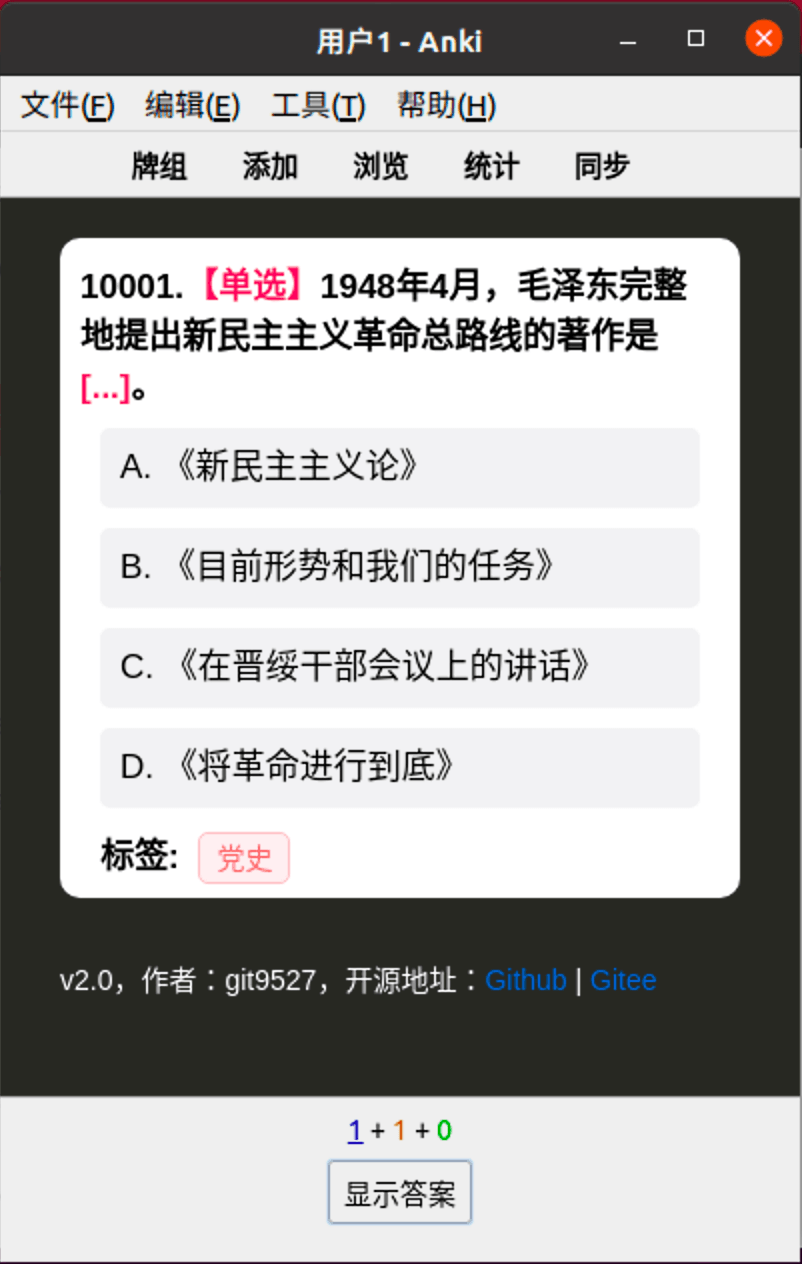
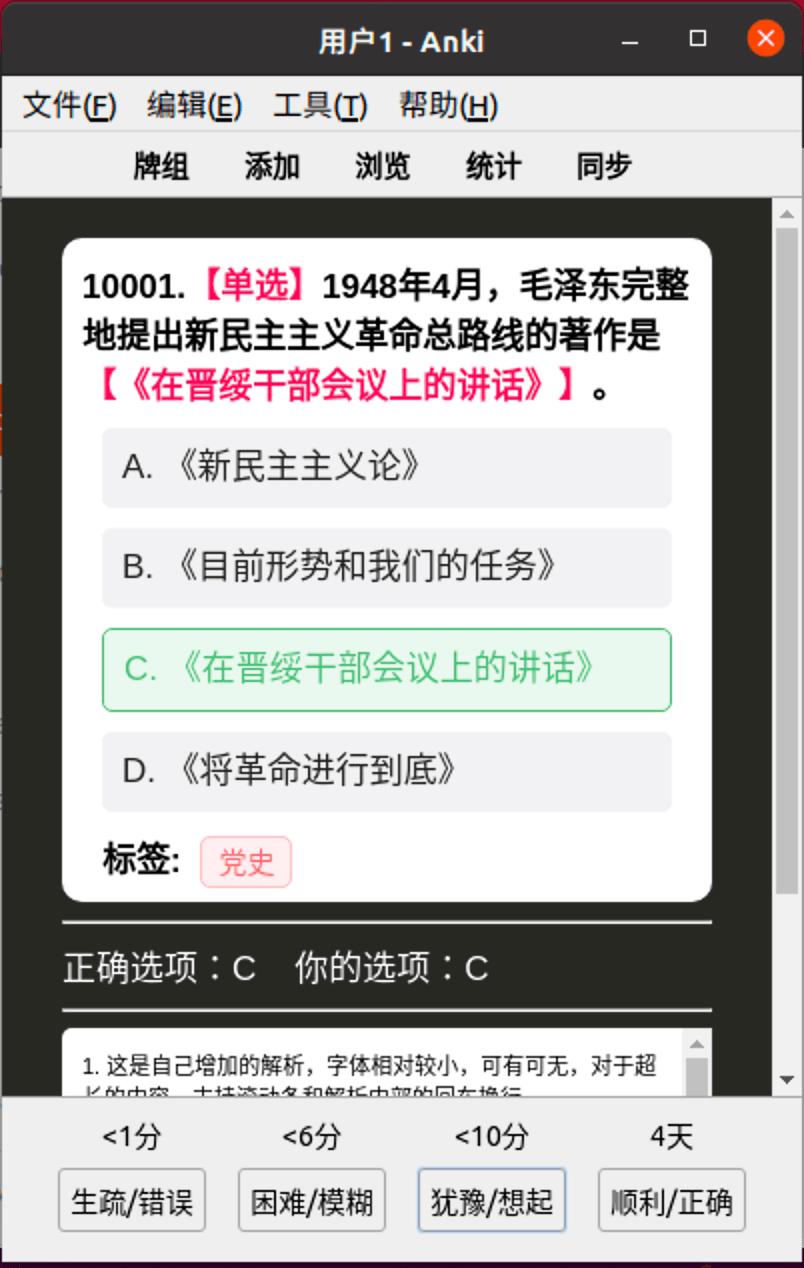
v3.2: 1. 选中的选项主色调由黄色调整为棕色 2. ⚠多选模式下，未选择但正确的选项标示为黄色 3. 优化解析部分的展示，对于超长的内容，支持滚动条和解析内部的回车换行。 4. 增加【淡色模式】的设置项，用于默认的浓色和淡色切换 5. 调整设置项顺序

diff --git a/front.html b/front.html
@@ -11,7 +11,7 @@
   </div>
 </div>
 
-<div class="footer">v3.1，作者：git9527，<a href="javascript:showSettings();">卡片设置</a>，开源地址：<a href="https://github.com/git9527/anki-awesome-select">Github</a> | <a href="https://gitee.com/git9527/anki-awesome-select">Gitee</a></div>
+<div class="footer">v3.2，作者：git9527，<a href="javascript:showSettings();">卡片设置</a>，开源地址：<a href="https://github.com/git9527/anki-awesome-select">Github</a> | <a href="https://gitee.com/git9527/anki-awesome-select">Gitee</a></div>
 
 <div id="answer" style="display:none">{{answer}}</div>
 <div id="options" style="display:none">{{options}}</div>
@@ -22,6 +22,12 @@
   <div class="modal-content">
     <span class="close" onclick="hideSettings()">&times;</span>
     <div class="settings-block">
+      <div class="single-setting">
+        <div class="setting-label">显示类型</div>
+        <div class="setting-switch">
+          <input id="show-type" class="mui-switch mui-switch-anim" type="checkbox" onchange="switchShowType(this)">
+        </div>
+      </div>
       <div class="single-setting">
         <div class="setting-label">隐藏选项</div>
         <div class="setting-switch">
@@ -35,15 +41,15 @@
         </div>
       </div>
       <div class="single-setting">
-        <div class="setting-label">显示类型</div>
-        <div class="setting-switch">
-          <input id="show-type" class="mui-switch mui-switch-anim" type="checkbox" onchange="switchShowType(this)">
-        </div>
-      </div>
-      <div class="single-setting">
         <div class="setting-label">延迟选项</div>
         <div class="setting-switch">
           <input id="delay-option" class="mui-switch mui-switch-anim" type="checkbox" onchange="switchDelayOption(this)">
+        </div>
+      </div>
+      <div class="single-setting">
+        <div class="setting-label">淡色模式</div>
+        <div class="setting-switch">
+          <input id="light-option" class="mui-switch mui-switch-anim" type="checkbox" onchange="switchLightOption(this)">
         </div>
       </div>
     </div>
@@ -57,6 +63,7 @@
   var hideOptions = '0'
   var randomOptions = '0'
   var delayOptions = '0'
+  var lightOptions = '0'
 
   function showFrontOptions(hideOption, randomOption, delayOption) {
     var keySeq = []
@@ -115,12 +122,17 @@
     return optionObjs
   }
 
+  function getSelectedKey() {
+    return lightOptions === '1' ? "selected-light" : 'selected'
+  }
+
   function markSelected(li) {
+    var selectedKey = getSelectedKey()
     // 对应多选
     if (document.getElementById("answer").innerHTML.indexOf('||') > 0) {
       if (Persistence.isAvailable()) {
         var selectedArray = Persistence.getItem('ANKI-SELECTED') ? Persistence.getItem('ANKI-SELECTED').split(',') : []
-        if (li.className.indexOf("selected") > 0) {
+        if (li.className.indexOf(selectedKey) > 0) {
           selectedArray.splice(selectedArray.indexOf(li.id), 1)
         } else {
           selectedArray.push(li.id)
@@ -133,15 +145,15 @@
           }, 100)
         }
       }
-      if (li.className.indexOf("selected") > 0) {
+      if (li.className.indexOf(selectedKey) > 0) {
         li.className = "option"
       } else {
-        li.className = "option selected"
+        li.className = "option " + selectedKey
       }
     } else {
       // 单选
       for (var option of document.getElementsByClassName('option')) { option.className = 'option'}
-      li.className = "option selected"
+      li.className = "option " + selectedKey
       if (Persistence.isAvailable()) {
         Persistence.setItem('ANKI-SELECTED', li.id)
       }
@@ -197,46 +209,70 @@
       hideOptions = Persistence.getItem('ANKI-SETTINGS-HIDE-OPTIONS') || '0'
       randomOptions = Persistence.getItem('ANKI-SETTINGS-RANDOM-OPTIONS') || '0'
       delayOptions = Persistence.getItem('ANKI-SETTINGS-DELAY-OPTIONS') || '0'
+      lightOptions = Persistence.getItem('ANKI-SETTINGS-LIGHT-OPTIONS') || '0'
       Persistence.setItem('ANKI-SELECTED', '')
     }
     document.getElementById('hide-option').checked = hideOptions === '1'
     document.getElementById('random-option').checked = randomOptions === '1'
     document.getElementById('show-type').checked = showQuestionType === '1'
     document.getElementById('delay-option').checked = delayOptions === '1'
+    document.getElementById('light-option').checked = lightOptions === '1'
     showFrontOptions(hideOptions, randomOptions, delayOptions)
     dealQuestionType(showQuestionType)
   }
 
   function switchHideOption(input) {
-    var key = input.checked ? '1' : '0'
-    if (Persistence.isAvailable()) {
-      Persistence.setItem('ANKI-SETTINGS-HIDE-OPTIONS', key)
-    }
-    showFrontOptions(key, randomOptions, delayOptions)
+    rerenderOptions(input, 'ANKI-SETTINGS-HIDE-OPTIONS')
   }
 
   function switchDelayOption(input) {
-    var key = input.checked ? '1' : '0'
-    if (Persistence.isAvailable()) {
-      Persistence.setItem('ANKI-SETTINGS-DELAY-OPTIONS', key)
-    }
-    showFrontOptions(hideOptions, randomOptions, key)
+    rerenderOptions(input, 'ANKI-SETTINGS-DELAY-OPTIONS')
   }
 
   function switchRandomOption(input) {
-    var key = input.checked ? '1' : '0'
-    if (Persistence.isAvailable()) {
-      Persistence.setItem('ANKI-SETTINGS-RANDOM-OPTIONS', key)
+    rerenderOptions(input, 'ANKI-SETTINGS-RANDOM-OPTIONS')
+  }
+
+  function switchLightOption(input) {
+    extractKeyFromInputAndSave(input, 'ANKI-SETTINGS-LIGHT-OPTIONS')
+    var selectedKey = getSelectedKey()
+    for (var option of document.getElementsByClassName('option')) {
+      if (option.className.indexOf(' ') > -1) {
+        option.className = "option " + selectedKey
+      }
     }
-    showFrontOptions(hideOptions, key, delayOptions)
   }
 
   function switchShowType(input) {
+    extractKeyFromInputAndSave(input, 'ANKI-SETTINGS-SHOW-QUESTION-TYPE')
+    dealQuestionType(showQuestionType)
+  }
+
+  function extractKeyFromInputAndSave(input, persistKey) {
     var key = input.checked ? '1' : '0'
     if (Persistence.isAvailable()) {
-      Persistence.setItem('ANKI-SETTINGS-SHOW-QUESTION-TYPE', key)
+      Persistence.setItem(persistKey, key)
+      if (persistKey === 'ANKI-SETTINGS-RANDOM-OPTIONS' || persistKey === 'ANKI-SETTINGS-DELAY-OPTIONS' || persistKey === 'ANKI-SETTINGS-HIDE-OPTIONS') {
+        Persistence.setItem('ANKI-SELECTED', '')
+      }
     }
-    dealQuestionType(key)
+    if (persistKey === 'ANKI-SETTINGS-HIDE-OPTIONS') {
+      hideOptions = key
+    } else if (persistKey === 'ANKI-SETTINGS-DELAY-OPTIONS') {
+      delayOptions = key
+    } else if (persistKey === 'ANKI-SETTINGS-RANDOM-OPTIONS') {
+      randomOptions = key
+    } else if (persistKey === 'ANKI-SETTINGS-LIGHT-OPTIONS') {
+      lightOptions = key
+    } else if (persistKey === 'ANKI-SETTINGS-SHOW-QUESTION-TYPE') {
+      showQuestionType = key
+    }
+    return key
+  }
+
+  function rerenderOptions(input, persistKey) {
+    extractKeyFromInputAndSave(input, persistKey)
+    showFrontOptions(hideOptions, randomOptions, delayOptions, lightOptions)
   }
 
   function dealQuestionType(showQuestionType) {

diff --git a/back.html b/back.html
@@ -21,7 +21,7 @@
 
 </div>
 
-<div class="footer">v3.1，作者：git9527，开源地址：<a href="https://github.com/git9527/anki-awesome-select">Github</a> | <a href="https://gitee.com/git9527/anki-awesome-select">Gitee</a></div>
+<div class="footer">v3.2，作者：git9527，开源地址：<a href="https://github.com/git9527/anki-awesome-select">Github</a> | <a href="https://gitee.com/git9527/anki-awesome-select">Gitee</a></div>
 
 <div id="answer" style="display:none">{{answer}}</div>
 <div id="options" style="display:none">{{options}}</div>
@@ -30,6 +30,10 @@
 
 <script>
   function showBackOptions() {
+    var _isLightOption = isLightOption()
+    var correctClass = _isLightOption ? 'correct-light' : 'correct'
+    var wrongClass = _isLightOption ? 'wrong-light' : 'wrong'
+    var shouldSelectClass = _isLightOption ? 'should-select-light' : 'should-select'
     var optionObjs = getOptionObjs()
     var liList = ''
     var isMulti = document.getElementById("answer").innerHTML.indexOf('||') > 0
@@ -43,17 +47,19 @@
       var _class = ''
       if (isMulti) {
         if (_isSelected && _isCorrect) {
-          _class = 'option correct'
-        } else if (!_isSelected && !_isCorrect) {
-          _class = 'option'
+          _class = 'option ' + correctClass
+        } else if (!_isSelected && _isCorrect) {
+          _class = 'option ' + shouldSelectClass
+        } else if (_isSelected && !_isCorrect) {
+          _class = 'option ' + wrongClass
         } else {
-          _class = 'option wrong'
+          _class = 'option'
         }
       } else {
         if (_isCorrect) {
-          _class = 'option correct'
+          _class = 'option ' + correctClass
         } else {
-          _class = _isSelected ? 'option wrong' : 'option'
+          _class = _isSelected ? 'option ' + wrongClass : 'option'
         }
       }
       liList += "<li class='" + _class + "'>" + _option + "</li>"
@@ -88,6 +94,14 @@
       })
     }
     return optionObjs
+  }
+
+  function isLightOption() {
+    if (Persistence.isAvailable()) {
+      return Persistence.getItem('ANKI-SETTINGS-LIGHT-OPTIONS') === '1'
+    } else {
+      return false
+    }
   }
 
   function showTags () {

diff --git a/styles.css b/styles.css
@@ -23,7 +23,7 @@
 }
 
 .option {
-    color: black;
+    color: #222222;
     background-color: #f2f2f4;
     padding: 7px 10px;
     margin: 10px;
@@ -36,23 +36,52 @@
     display: none;
 }
 
+.correct-light {
+    background-color: #edf8f0;
+    color: #64bd7b;
+    border: 1px solid #64bd7b;
+}
+
 .correct {
-    background-color: #5ec582;
-    color: white
+    background-color: #64bd7b;
+    color: white;
+}
+
+.wrong-light {
+    background-color: #fbebeb;
+    color: #df4a48;
+    border: 1px solid #df4a48;
 }
 
 .wrong {
-    background-color: #e25b76;
-    color: white
+    background-color: #df4a48;
+    color: white;
+}
+
+.should-select-light {
+    background-color: #f8eedb;
+    color: #ffc245;
+    border: 1px solid #ffc245;
+}
+
+.should-select {
+    background-color: #ffc245;
+    color: white;
+}
+
+.selected-light {
+    background-color: #f7f5f2;
+    color: #b59f86;
+    border: 1px solid #b59f86;
+}
+
+.selected {
+    background-color: #b59f86;
+    color: white;
 }
 
 .question-type {
     color: #ef3461;
-}
-
-.selected {
-    background-color: #ffc245;
-    color: white
 }
 
 .card {
@@ -102,6 +131,9 @@ a {
 
 .notes-container {
     background-color: white;
+    font-size: 11px;
+    max-height: 50px;
+    overflow-y: scroll;
     color: black;
     border-radius: 5px;
     padding: 10px;
@@ -243,5 +275,3 @@ a {
     height: 40px;
     line-height: 40px;
 }
-
-

diff --git a/README.md b/README.md
@@ -1,6 +1,13 @@
 # Anki的选择题模板
 
 ## 更新日志:
+v3.2:
+1. 选中的选项主色调由黄色调整为棕色
+2. ⚠多选模式下，未选择但正确的选项标示为黄色
+3. 优化解析部分的展示，对于超长的内容，支持滚动条和解析内部的回车换行。
+4. 增加【淡色模式】的设置项，用于默认的浓色和淡色切换
+5. 调整设置项顺序
+
 v3.1:
 1. 调整弹窗背景颜色，与卡片默认背景色保持一致
 2. 进入卡片时，清除可能存在的已选择项
@@ -32,7 +39,7 @@ v1.5:
 |       | 正确选项 | 错误选项 |
 | :---: | :----: | :----: |
 | 选中   |   ✅   |  ❌    |
-| 未选中 |    ❌   | 无变化  |
+| 未选中 |    ⚠   | 无变化  |
 
 ## 模板字段
 ![image](screens/fields.png)
@@ -44,10 +51,11 @@ v1.5:
 
 ## 卡片设置
 ![image](screens/settings.png)
-1. 隐藏选项：适用位置不变的速答题，是否将选项隐藏（仅显示第一个汉字)，记住位置
-2. 随机选项：是否将选项的位置随机打乱
-3. 显示类型：是否在问题前显示题目的类型（【单选】或【多选】）
+1. 显示类型：是否在问题前显示题目的类型（【单选】或【多选】）
+2. 隐藏选项：适用位置不变的速答题，是否将选项隐藏（仅显示第一个汉字)，记住位置
+3. 随机选项：是否将选项的位置随机打乱
 4. 延迟选项：是否延迟500毫秒显示选项
+5. 淡色模式：用于默认的浓色和淡色切换
 
 ## 各平台截图
 |平台             | 单选 | 多选 |
